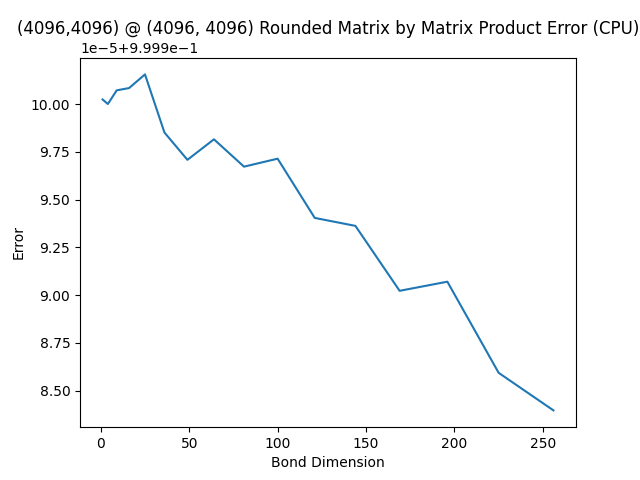
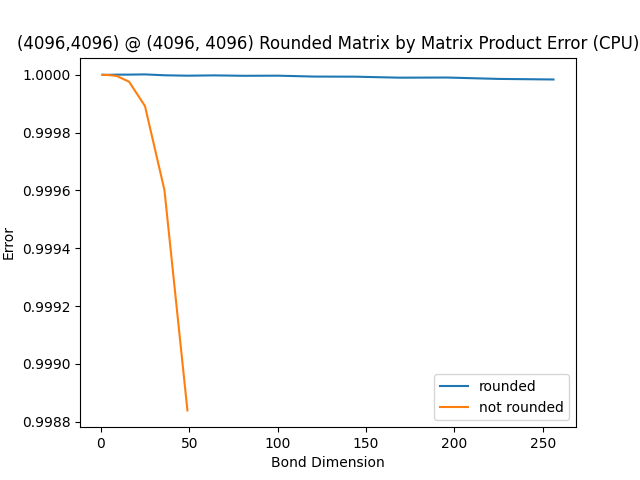
test: compare rounding and no rounding

diff --git a/tests/test_rounded_matrix_by_matrix_product.py b/tests/test_rounded_matrix_by_matrix_product.py
@@ -14,9 +14,10 @@ torch.random.manual_seed(0)
 
 # bond_dims = [1,10,20,30,40,50]
 bond_dims = [1,4,9,16,25,36,49,64,81,100,121,144,169,196,225,256]
+econ_bond_dims = bond_dims[:7]
 pics_path = "../pics/"
 
-device = torch.device("cpu")
+device = torch.device("cuda")
 
 def get_product_time(bond_dim, rounding=False, ITERS=3):
     rank = 16
@@ -61,15 +62,13 @@ def time_product():
     plain_matmul_times = []
     for b in bond_dims:
         print(f"rounding, bond_dim = {b}")
-        t, err, matmul_t = get_product_time(b)
+        t, err, matmul_t = get_product_time(b, rounding=True)
         times.append(t)
         errs.append(err)
         matmul_times.append(matmul_t)
-    for b in bond_dims:
-        if b > 50:
-            break
+    for b in econ_bond_dims:
         print(f"no rounding, bond_dim={b}")
-        t, err, matmul_t = get_product_time(b)
+        t, err, matmul_t = get_product_time(b, rounding=False)
         plain_times.append(t)
         plain_errs.append(err)
         plain_matmul_times.append(matmul_t)
@@ -84,7 +83,7 @@ def plot_product_time(times, matmul_times, plain_times):
         ax.set_title(f"(4096,4096) @ (4096, 4096) Rounded Matrix by Matrix Product Time (GPU)")
     ax.plot(bond_dims, times, label="rounded")
     ax.plot(bond_dims, matmul_times, label="torch.matmul")
-    ax.plot(bond_dims, plain_times, label="not rounded")
+    ax.plot(econ_bond_dims, plain_times, label="not rounded")
     ax.set_xlabel("Bond Dimension")
     ax.set_ylabel("Time")
     ax.legend()
@@ -101,7 +100,7 @@ def plot_product_error(errs, plain_errs):
     else:
         ax.set_title(f"(4096,4096) @ (4096, 4096) Rounded Matrix by Matrix Product Error (GPU)")
     ax.plot(bond_dims, errs, label="rounded")
-    ax.plot(bond_dims, plain_errs, label="not rounded")
+    ax.plot(econ_bond_dims, plain_errs, label="not rounded")
     ax.set_xlabel("Bond Dimension")
     ax.set_ylabel("Error")
     ax.legend()
@@ -113,6 +112,7 @@ def plot_product_error(errs, plain_errs):
 if __name__ == "__main__":
     times, errs, matmul_times, plain_times, plain_errs, plain_matmul_times = time_product()
     errs = [err.item() for err in errs]
+    plain_errs = [err.item() for err in plain_errs]
     plot_product_time(times, matmul_times, plain_times)
     plot_product_error(errs, plain_errs)
 
